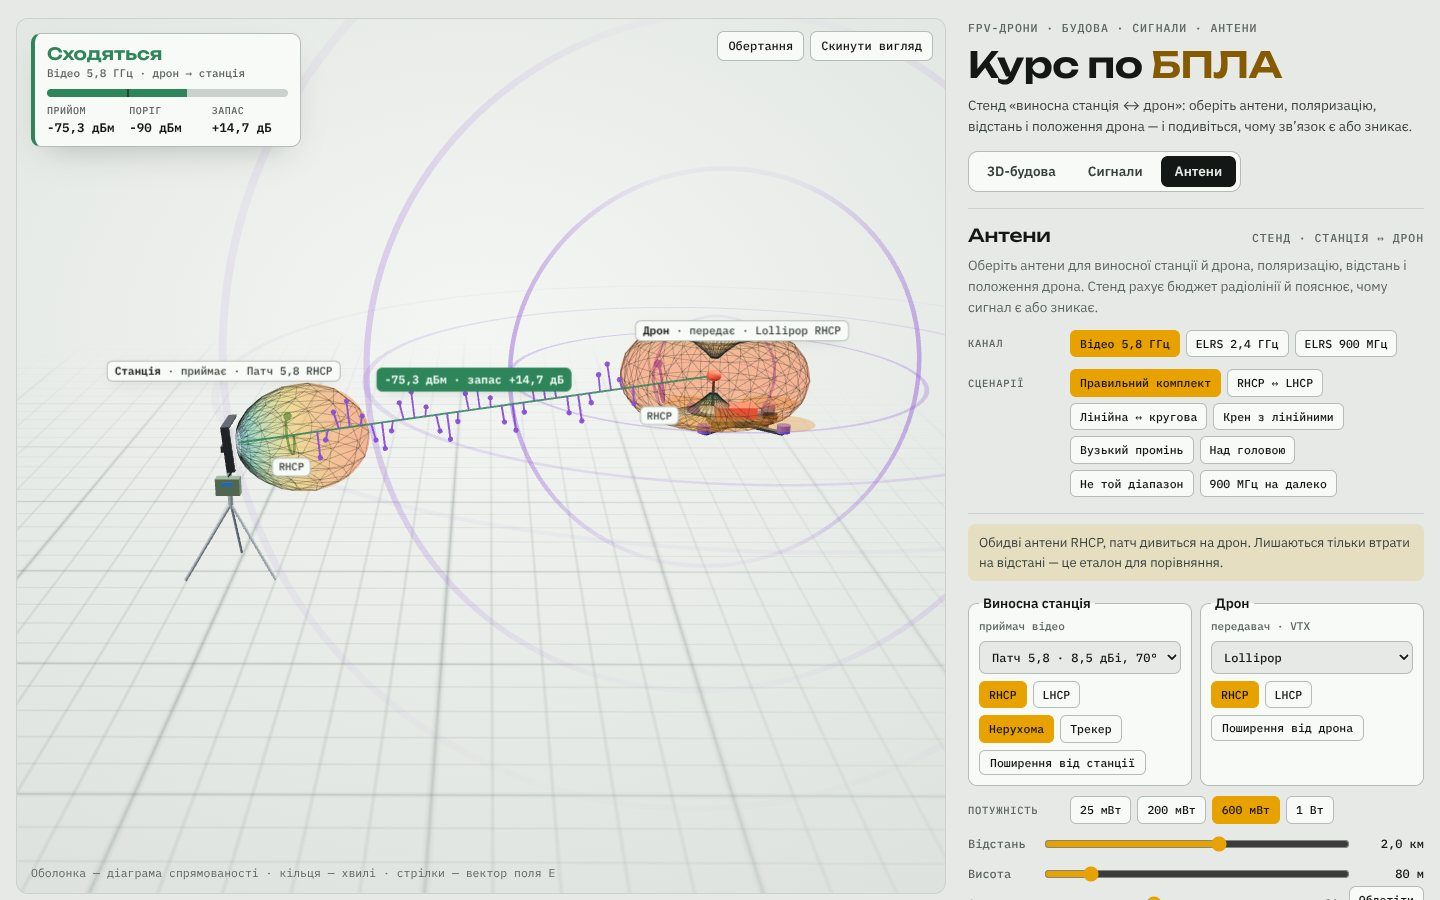
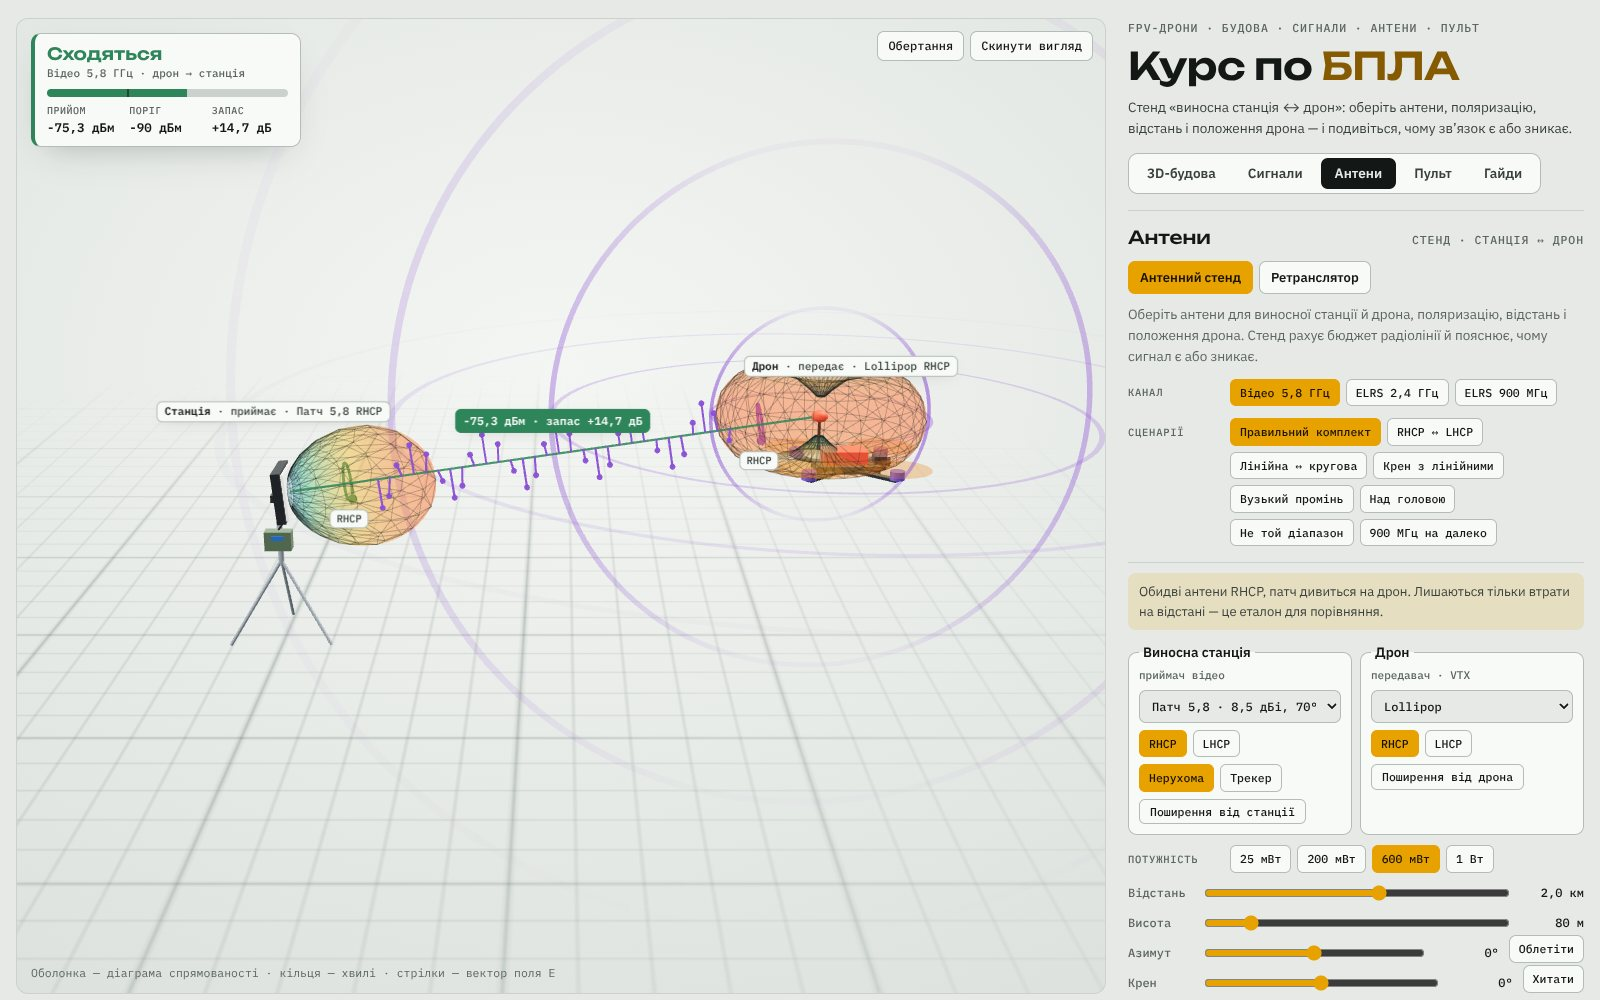
Документація: знімки стенду й ретранслятора, версія 3.1.0
README: у розділах «Антени» і «Ретранслятор» — актуальні знімки
(docs/preview.jpg замінено знімком поточного інтерфейсу з п'ятьма
розділами, додано docs/relay.jpg з новою місцевістю); у структурі
перелічено всі знімки; в описі relay.js — процедурна місцевість;
у моделі ретранслятора й обмеженнях — що ліс і передгір'я в бюджет
не входять; у тестах — перемикачі шарів. package.json: 3.1.0.

Claude-Session: https://claude.ai/code/session_01UoRhgZXwV1iLRe4fjFqpk6

diff --git a/README.md b/README.md
@@ -27,8 +27,12 @@
 - **Бюджет радіолінії:** потужність, підсилення антен під поточним кутом, втрати у вільному просторі, поляризаційні втрати, неузгодження діапазону, радіогоризонт, рівень на приймачі, запас до порогу чутливості й дальність із запасом 10 дБ. Вердикт «Сходяться / На межі / Не сходяться» з поясненням причин і порадою, що змінити.
 - **Сценарії:** правильний комплект, RHCP ↔ LHCP, лінійна ↔ кругова, крен з лінійними антенами, вузький промінь хелікала, політ над головою, антена не того діапазону, 900 МГц на далеко.
 
+![Антенний стенд: діаграми спрямованості, хвилі й бюджет радіолінії](docs/preview.jpg)
+
 #### Ретранслятор
 Підрозділ «Ретранслятор»: станція в долині, дрон за лісистою горою, на полонині на вершині — ретранслятор. Місцевість процедурна: гора з межею лісу й гребенем, що йде вдалину, передгір’я, мішаний ліс, озеро, дорога й поля, небо з туманом і далекими хребтами; у темній темі — сутінки. Висота гори з повзунка перебудовує рельєф і ліс. Шари «Радіотінь» і «Зона Френеля» вмикаються окремо.
+
+![Ретранслятор: станція в долині, ретранслятор на вершині лісистої гори, дрон у радіотіні за горою](docs/relay.jpg)
 - **Пряма лінія й радіотінь:** дифракція на вершині за моделлю одиночної «ножової» перешкоди (ITU-R P.526), видима зона радіотіні й перша зона Френеля кожного прольоту.
 - **Через ретранслятор:** окремий бюджет для кожного прольоту; цифровий ретранслятор (декодує пакети — запас дорівнює слабшому прольоту, додається затримка) і аналоговий (шуми прольотів додаються).
 - **Частоти:** прийом на f1, передача на f2; сценарій «той самий канал» показує самоглушіння без розв'язки.
@@ -74,12 +78,12 @@ js/anim.js          стан, оверлеї, підсвітка, камера, 
 js/demos.js         анімації вузлів, режими, головний цикл, вказівник
 js/signals.js       розділ «Сигнали»
 js/antlab.js        розділ «Антени»: каталог, фізична модель, 3D-стенд, панель
-js/relay.js         розділ «Антени» → «Ретранслятор»: дифракція, прольоти, будова ретранслятора
+js/relay.js         розділ «Антени» → «Ретранслятор»: дифракція, прольоти, процедурна місцевість, будова ретранслятора
 js/radio.js         розділ «Пульт»: 3D-модель TX16S, канали, режими Betaflight, симулятор дрона
 js/guides.js        розділ «Гайди»: Betaflight, EdgeTX, ExpressLRS
 js/ui.js            перемикачі, специфікація, конфігуратор, бічна панель, події
 tests/smoke.js      smoke-тест на Playwright
-docs/preview.jpg    знімок для README
+docs/               знімки для README: radio.jpg — пульт, preview.jpg — антенний стенд, relay.jpg — ретранслятор
 ```
 
 Скрипти класичні (не ES-модулі) і ділять глобальну область видимості, тому сторінка відкривається навіть з `file://`. Порядок підключення в `index.html` важливий: `content → options → core → builders → whoop → anim → demos → signals → antlab → relay → radio → guides → ui`.
@@ -101,6 +105,7 @@ docs/preview.jpg    знімок для README
 - Перша зона Френеля посередині прольоту: `r = ½·√(λ·d)`.
 - Цифровий ретранслятор: запас = мінімум запасів прольотів. Аналоговий: `−10·lg(10^(−m₁/10) + 10^(−m₂/10))`.
 - Той самий канал без розв'язки: власний передавач глушить приймач, лінія не працює.
+- Рельєф у розрахунку — одна вершина; ліс, передгір’я й озеро в сцені — для наочності, у бюджет не входять.
 
 ## Модель пульта й дрона
 
@@ -133,12 +138,13 @@ npx playwright install chromium
 npm test
 ```
 
-Тест проходить усі платформи, режими, анімації, варіанти конфігуратора (на десктопі), ланцюжки сигналів, сценарії антенного стенду й ретранслятора, тумблери й сценарії пульта з перевіркою армування та всі кроки трьох гайдів на десктопній і мобільній ширині, відкриває бічну панель камери й перевіряє помилки в консолі та горизонтальне прокручування. Скриншоти зберігаються в `tests/shots/`. `three@0.128.0` у devDependencies потрібен, щоб тест не залежав від CDN.
+Тест проходить усі платформи, режими, анімації, варіанти конфігуратора (на десктопі), ланцюжки сигналів, сценарії антенного стенду й ретранслятора з перемикачами шарів, тумблери й сценарії пульта з перевіркою армування та всі кроки трьох гайдів на десктопній і мобільній ширині, відкриває бічну панель камери й перевіряє помилки в консолі та горизонтальне прокручування. Скриншоти зберігаються в `tests/shots/`. `three@0.128.0` у devDependencies потрібен, щоб тест не залежав від CDN.
 
 ## Обмеження
 
 - Маса, тяга, струм і час польоту — інженерні оцінки за спрощеною моделлю для типових компонентів свого класу, а не паспортні дані конкретних моделей.
 - Антенний стенд рахує вільний простір: без рельєфу, перешкод, зони Френеля й завмирань. Реальна дальність у рази менша, але співвідношення між варіантами ті самі. Підсилення антен — типові значення для свого класу.
+- Ретранслятор рахує одну «ножову» вершину без відбиттів, втрат у лісі й кривизни Землі; пейзаж у сцені процедурний і стиснутий по горизонталі.
 - Анімація світлодіода приймача відтворює логіку ExpressLRS; у TBS Crossfire індикація інша, тому Wi-Fi-режим для нього вимкнено.
 - Симулятор дрона в розділі «Пульт» спрощений: ідеальний регулятор, оцінна тяга, без вітру й інерції моторів. Розташування тумблерів, потенціометрів, слайдерів і тримів відповідає TX16S Mark II; розкладку кнопок меню біля екрана відтворено наближено.
 - Гайди описують загальний порядок; назви пунктів меню можуть відрізнятися між версіями Betaflight, EdgeTX і ExpressLRS.
